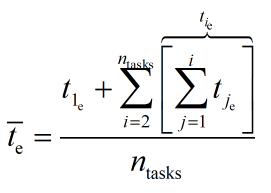
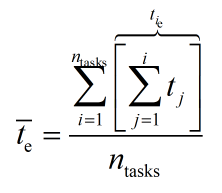
corrections

Changed region(s): [[0.027, 0.0311, 0.9459, 0.8083], [0.4865, 0.7772, 0.7297, 0.9326]]

diff --git a/cs-6200/07-P3L1-scheduling.md b/cs-6200/07-P3L1-scheduling.md
@@ -169,21 +169,21 @@ Calculate the throughput, average completion time, and average wait time via the
 Reference equations:
 * throughput
 <center>
-<img src="./assets/P03L01-008.png" width="175">
+<img src="./assets/P03L01-008.png" width="200">
 </center>
 
 * average completion time
 <center>
-<img src="./assets/P03L01-009.png" width="225">
+<img src="./assets/P03L01-009.png" width="200">
 </center>
 
 * average wait time
 <center>
-<img src="./assets/P03L01-010.png" width="350">
+<img src="./assets/P03L01-010.png" width="425">
 </center>
 
-where *`n`*<sub>`tasks`</sub> is the number of tasks, *`t`*<sub>`e`</sub> is an execution time for a task, and *`t`*<sub>`w`</sub> is a wait time for a task.
-  * ***N.B.*** *`i`* and *`j`* are indices denoting specific tasks, where both *`i`* and *`j`* are indexed in the ***order*** of the tasks' executions (e.g., *`i`* and *`j`* represent indices `1`, `2`, and `3` for tasks `T1`, `T3`, and `T2` (respectively) in this quiz's example).
+where *`n`*<sub>`tasks`</sub> is the number of tasks, *`t`*<sub>`e`</sub> is the total (cumulative) execution time for a task (i.e., relative to time `t = 0`), and *`t`*<sub>`w`</sub> is a wait time for a task.
+  * ***N.B.*** *`i`* and *`j`* are indices denoting specific tasks, where both *`i`* and *`j`* are indexed in the ***order*** of the tasks' executions (e.g., *`i`* and *`j`* represent indices `1`, `2`, and `3` for tasks `T1`, `T3`, and `T2` (respectively) in this quiz's example). Correspondingly, index variables *`t`*<sub>*`i`*</sub> and *`t`*<sub>*`j`*</sub> denote these tasks' single-task execution times (e.g., `1s`, `1s`, and `10s` for tasks `T1`, `T3`, and `T2` (respectively) in this quiz's example).
 
 ## 6. Preemptive Scheduling: SJF + Preempt
 
